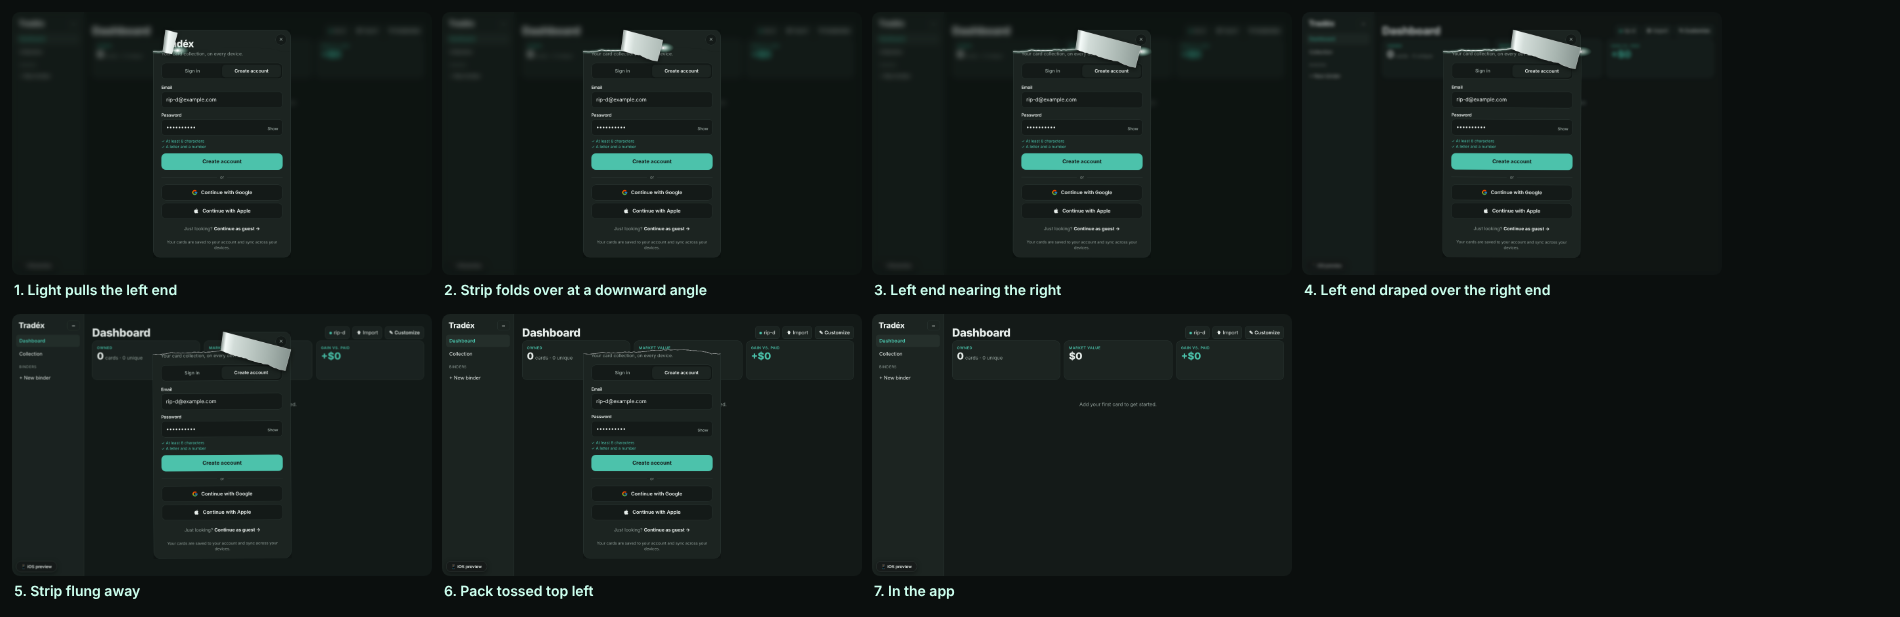
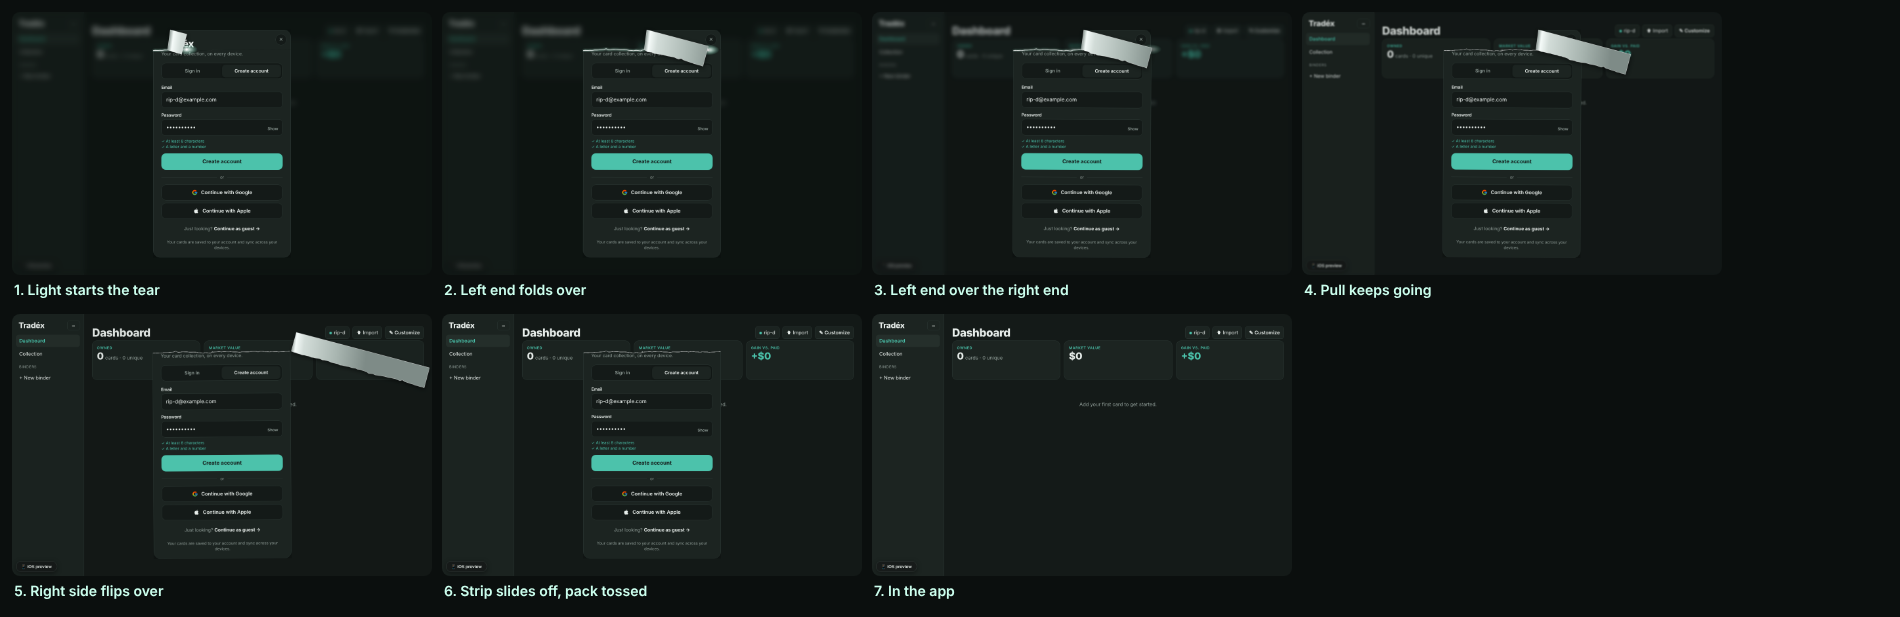
Keep pulling the fold through until the whole strip flips and slides off
Instead of flinging the folded strip, the fold carries on past the right
edge so the right side flips over too and the strip slides off screen.

Claude-Session: https://claude.ai/code/session_01K6ofJxh6QarDQ2gKnJ83gJ

diff --git a/js/account.js b/js/account.js
@@ -263,7 +263,7 @@ function lift(rip){const g=$('#txa');if(!g||g.classList.contains('clear'))return
  fl.innerHTML='<defs><linearGradient id="txfl" gradientUnits="userSpaceOnUse"><stop offset="0" stop-color="#8f9c97"/><stop offset=".05" stop-color="#f6fcfa"/><stop offset=".16" stop-color="#d3ddd9"/><stop offset=".6" stop-color="#a9b6b1"/><stop offset="1" stop-color="#7e8b87"/></linearGradient></defs><polygon fill="url(#txfl)"/><polyline fill="none" stroke="rgba(255,255,255,.55)" stroke-width="1.2" stroke-linejoin="bevel"/>';
  const [gr,flap,rim]=[fl.querySelector('linearGradient'),fl.querySelector('polygon'),fl.querySelector('polyline')];
  // crease slants so the folded end comes over at a downward angle and ends just past the right edge, hanging below the strip
- const A=.13,nv=[Math.cos(A),Math.sin(A)],kEnd=.5*W/nv[0];
+ const A=.13,nv=[Math.cos(A),Math.sin(A)],kEnd=.5*W/nv[0],kOut=W*nv[0]+(innerWidth-r.left-W+80)/(2*nv[0]),P2=800;
  const roll=e=>{const k=e*kEnd,f=half(shape,nv,k),back=half(shape,[-nv[0],-nv[1]],-k).map(([x,y])=>{const dd=nv[0]*x+nv[1]*y-k;return[x-2*dd*nv[0],y-2*dd*nv[1]]});
   front.style.clipPath=f.length>2?`polygon(${f.map(([x,y])=>x.toFixed(1)+'px '+y.toFixed(1)+'px').join(',')})`:'polygon(0 0,0 0,0 0)';
   const pt=back.map(([x,y])=>x.toFixed(1)+','+y.toFixed(1)).join(' ');flap.setAttribute('points',pt);rim.setAttribute('points',back.length?pt+' '+back[0].join(','):'');
@@ -283,11 +283,10 @@ function lift(rip){const g=$('#txa');if(!g||g.classList.contains('clear'))return
  (function step(now){const q=Math.min(1,(now-t0)/SW),e=q<.5?2*q*q:1-Math.pow(-2*q+2,2)/2,pt=lineP.getPointAtLength(e*len);
   glowP.style.strokeDashoffset=lineP.style.strokeDashoffset=len*(1-e);roll(e);halo.setAttribute('cx',pt.x);halo.setAttribute('cy',pt.y);dot.setAttribute('cx',pt.x);dot.setAttribute('cy',pt.y);
   if(q<1)requestAnimationFrame(step);else{halo.animate([{opacity:.9},{opacity:0}],{duration:200,fill:'forwards'});dot.animate([{opacity:1},{opacity:0}],{duration:200,fill:'forwards'});
-   bx.appendChild(fray());front.appendChild(fray());lit.animate([{opacity:1},{opacity:0}],{duration:260,delay:120,fill:'forwards'})}})(t0);
- const T=SW+380,E='cubic-bezier(.5,0,.75,0)',tot=T+650;
- // Once the strip has folded all the way across, it is flung to the top right…
- wrap.animate([{transform:'none',offset:0},{transform:'none',offset:T/(T+520)},{transform:'translate(30px,-30px) rotate(-8deg)',offset:(T+120)/(T+520)},
-  {transform:`translate(${innerWidth}px,${-innerHeight*.6}px) rotate(35deg)`}],{duration:T+520,easing:'ease-in',fill:'forwards'});
+   bx.appendChild(fray());front.appendChild(fray());lit.animate([{opacity:1},{opacity:0}],{duration:200,fill:'forwards'});
+   // keep pulling: the fold runs on through the right side until the whole strip has flipped over and slid off screen
+   const t1=performance.now();(function pull(now){const u=Math.min(1,(now-t1)/P2);roll(1+(kOut/kEnd-1)*u*u*(1.4-.4*u));if(u<1)requestAnimationFrame(pull)})(t1)}})(t0);
+ const T=SW+P2*.55,E='cubic-bezier(.5,0,.75,0)',tot=T+650;
  // …and the opened pack shivers from the tear, lifts, and is tossed off the top left while the haze clears.
  const f=t=>t/tot;bx.animate([{transform:'none'},{transform:'rotate(.4deg)',offset:f(SW*.3)},{transform:'rotate(-.4deg)',offset:f(SW*.6)},{transform:'none',offset:f(SW*.9)},{transform:'none',offset:f(T)},
   {transform:'translateY(-22px) rotate(-2deg)',offset:f(T+200)},{transform:`translate(${-innerWidth*.7}px,${-innerHeight*1.1}px) rotate(-28deg)`}],{duration:tot,easing:E,fill:'forwards'});
